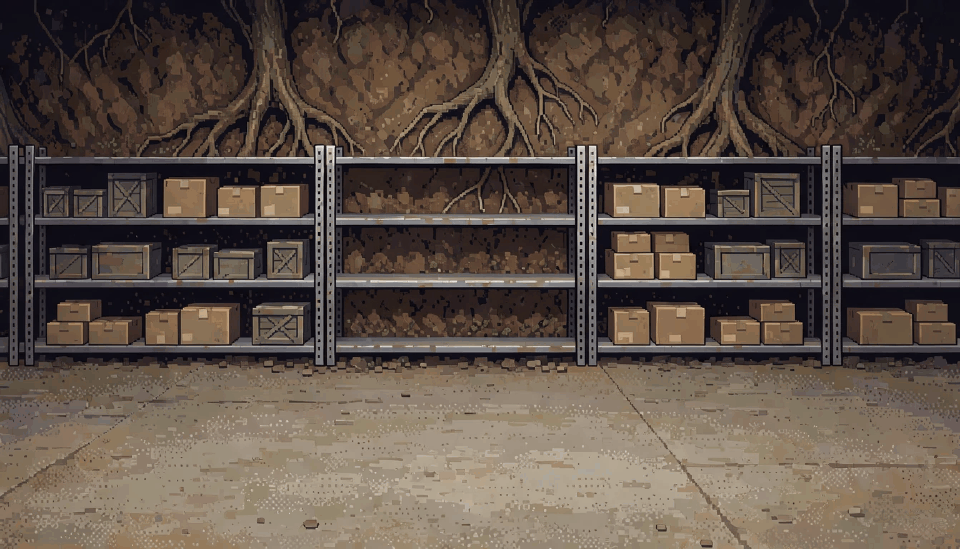
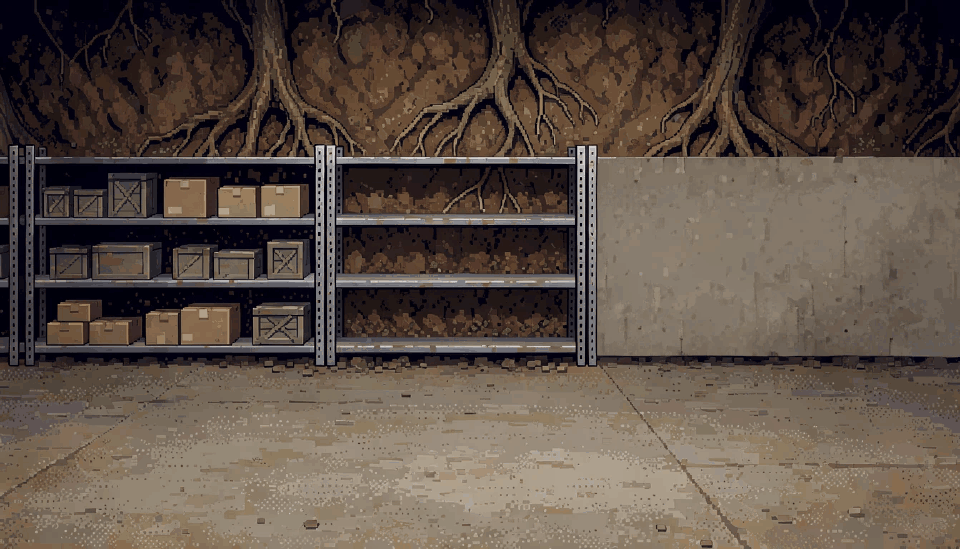
Capitolo 6: magazzino rifatto con il nuovo sfondo (muro di cemento), branda lunga e bassa, lavandino e specchio appesi al muro, ombre, luci d'emergenza, catena morbida (v1.204)

diff --git a/index.html b/index.html
@@ -878,7 +878,7 @@
       <button class="hs-btn btn-secondario" id="hb-3">TORNEO</button>
     </div>
     <div class="hs-extra"><button class="btn-secondario" id="hb-4">ALLENAMENTO</button><button class="btn-secondario" id="hb-chars">PERSONAGGI</button></div>
-    <div class="hs-foot"><span>Dal libro Le Sopracciglia della Guerra · v1.203</span><button id="hb-cred">Crediti</button><button id="hb-install" class="hs-install" hidden>Installa l’app</button></div>
+    <div class="hs-foot"><span>Dal libro Le Sopracciglia della Guerra · v1.204</span><button id="hb-cred">Crediti</button><button id="hb-install" class="hs-install" hidden>Installa l’app</button></div>
   </div>
   <!-- impostazioni: icona in alto a sinistra, pannello a comparsa -->
   <button id="hb-set" class="btn-icona" aria-label="Impostazioni"><svg class="pxi" viewBox="0 0 16 16" width="32" height="32" shape-rendering="crispEdges" aria-hidden="true"><rect class="px-o" x="6" y="1" width="4" height="1"/><rect class="px-o" x="2" y="2" width="2" height="1"/><rect class="px-o" x="6" y="2" width="1" height="1"/><rect class="px-g" x="7" y="2" width="2" height="1"/><rect class="px-o" x="9" y="2" width="1" height="1"/><rect class="px-o" x="12" y="2" width="2" height="1"/><rect class="px-o" x="1" y="3" width="1" height="1"/><rect class="px-g" x="2" y="3" width="2" height="1"/><rect class="px-o" x="4" y="3" width="2" height="1"/><rect class="px-g" x="6" y="3" width="4" height="1"/><rect class="px-o" x="10" y="3" width="2" height="1"/><rect class="px-g" x="12" y="3" width="2" height="1"/><rect class="px-o" x="14" y="3" width="1" height="1"/><rect class="px-o" x="1" y="4" width="1" height="1"/><rect class="px-g" x="2" y="4" width="11" height="1"/><rect class="px-G" x="13" y="4" width="1" height="1"/><rect class="px-o" x="14" y="4" width="1" height="1"/><rect class="px-o" x="2" y="5" width="1" height="1"/><rect class="px-g" x="3" y="5" width="4" height="1"/><rect class="px-o" x="7" y="5" width="2" height="1"/><rect class="px-g" x="9" y="5" width="4" height="1"/><rect class="px-o" x="13" y="5" width="1" height="1"/><rect class="px-o" x="1" y="6" width="2" height="1"/><rect class="px-g" x="3" y="6" width="3" height="1"/><rect class="px-o" x="6" y="6" width="1" height="1"/><rect class="px-o" x="9" y="6" width="1" height="1"/><rect class="px-g" x="10" y="6" width="3" height="1"/><rect class="px-o" x="13" y="6" width="2" height="1"/><rect class="px-o" x="0" y="7" width="1" height="1"/><rect class="px-g" x="1" y="7" width="4" height="1"/><rect class="px-o" x="5" y="7" width="1" height="1"/><rect class="px-o" x="10" y="7" width="1" height="1"/><rect class="px-g" x="11" y="7" width="2" height="1"/><rect class="px-G" x="13" y="7" width="2" height="1"/><rect class="px-o" x="15" y="7" width="1" height="1"/><rect class="px-o" x="0" y="8" width="1" height="1"/><rect class="px-g" x="1" y="8" width="4" height="1"/><rect class="px-o" x="5" y="8" width="1" height="1"/><rect class="px-o" x="10" y="8" width="1" height="1"/><rect class="px-g" x="11" y="8" width="1" height="1"/><rect class="px-G" x="12" y="8" width="3" height="1"/><rect class="px-o" x="15" y="8" width="1" height="1"/><rect class="px-o" x="1" y="9" width="2" height="1"/><rect class="px-g" x="3" y="9" width="3" height="1"/><rect class="px-o" x="6" y="9" width="1" height="1"/><rect class="px-o" x="9" y="9" width="1" height="1"/><rect class="px-g" x="10" y="9" width="1" height="1"/><rect class="px-G" x="11" y="9" width="2" height="1"/><rect class="px-o" x="13" y="9" width="2" height="1"/><rect class="px-o" x="2" y="10" width="1" height="1"/><rect class="px-g" x="3" y="10" width="3" height="1"/><rect class="px-G" x="6" y="10" width="1" height="1"/><rect class="px-o" x="7" y="10" width="2" height="1"/><rect class="px-G" x="9" y="10" width="4" height="1"/><rect class="px-o" x="13" y="10" width="1" height="1"/><rect class="px-o" x="1" y="11" width="1" height="1"/><rect class="px-g" x="2" y="11" width="2" height="1"/><rect class="px-G" x="4" y="11" width="10" height="1"/><rect class="px-o" x="14" y="11" width="1" height="1"/><rect class="px-o" x="1" y="12" width="1" height="1"/><rect class="px-G" x="2" y="12" width="2" height="1"/><rect class="px-o" x="4" y="12" width="2" height="1"/><rect class="px-G" x="6" y="12" width="4" height="1"/><rect class="px-o" x="10" y="12" width="2" height="1"/><rect class="px-G" x="12" y="12" width="2" height="1"/><rect class="px-o" x="14" y="12" width="1" height="1"/><rect class="px-o" x="2" y="13" width="2" height="1"/><rect class="px-o" x="6" y="13" width="1" height="1"/><rect class="px-G" x="7" y="13" width="2" height="1"/><rect class="px-o" x="9" y="13" width="1" height="1"/><rect class="px-o" x="12" y="13" width="2" height="1"/><rect class="px-o" x="6" y="14" width="4" height="1"/></svg></button>
@@ -901,7 +901,7 @@
     <div class="cr-b"><div class="cr-r">IDEAZIONE, SVILUPPO<br>E GRAFICHE DEL GIOCO</div><div class="cr-n">Chiara Corbo</div></div>
     <div class="cr-b"><div class="cr-r">MUSICHE</div><div class="cr-n">Federico Baccetti</div></div>
     <div class="cr-end">Grazie per aver giocato!<br>Che le vostre sopracciglia siano sempre in guerra.</div>
-    <p class="lic">Vittoria di Luca Pisani: W. A. Mozart, <i>Eine kleine Nachtmusik</i> (pubblico dominio). Carattere Pixelify Sans © 2021 The Pixelify Sans Project Authors, SIL Open Font License 1.1 (openfontlicense.org). Versione v1.203.</p>
+    <p class="lic">Vittoria di Luca Pisani: W. A. Mozart, <i>Eine kleine Nachtmusik</i> (pubblico dominio). Carattere Pixelify Sans © 2021 The Pixelify Sans Project Authors, SIL Open Font License 1.1 (openfontlicense.org). Versione v1.204.</p>
     <button id="cred-close" class="btn-primario">CHIUDI</button>
   </div></div>
 </div>
@@ -3511,18 +3511,20 @@ const ABBAIA={mango:true};
    suBranda = Iacopo sdraiato sollevato fino al piano della branda; polso = dove parte la catena; gambaBranda = punto della gamba della branda nell'immagine;
    sopracciglio = punto del sopracciglio di Iacopo sdraiato; martello = dove il martello colpisce la catena (dx davanti a Iacopo, dy da terra) e fotogramma del colpo;
    specchio = altezza dello specchio sullo schermo e ovale del vetro nell'immagine */
-const CAP6={suBranda:34,branda:{img:'branda',x:.74,scala:.95},polsoSdraiato:[76,10],polsoSeduto:[80,84],gambaBranda:[10,74],sopracciglio:[15,13],
+const CAP6={suBranda:14,suSedutoBranda:-12,branda:{img:'branda_magazzino',x:.77,scala:.52},polsoSdraiato:[76,10],polsoSeduto:[80,84],gambaBranda:[10,74],sopracciglio:[15,13],
   martello:{dx:80,dy:90,colpo:7},erba:-34,suSeduto:5,letto:.7,altLetto:84,martelloDist:.12,luca:.5,sito:.44,specchio:{alto:300,y:12,vetro:{cx:120,cy:160,rx:79,ry:119}}};
 /* il magazzino della base (cap06): sfondo vuoto + oggetti di scena separati, tutti sulla linea del pavimento davanti agli scaffali.
    branda a destra, lavandino a muro all'estrema destra con lo specchio sopra; tavolo al centro con la cassa accanto (Luca ci si siede).
    "Dopo quella notte": il lavandino rotto a terra nell'angolo e, al posto dello specchio, un segno più chiaro sul muro. */
-const MAG6={tavolo:{img:'tavolo',x:.58,scala:.9},cassa:{img:'cassa',x:.5,scala:.57},lavandino:{img:'lavandino',x:.93,scala:.8},
-  specchio:{img:'specchio',x:.935,dy:-110,scala:.18},segno:{img:'segno_specchio',x:.935,dy:-110,scala:.18},rotto:{img:'lavandino_rotto',x:.93,scala:.75},
-  vassoio:{img:'vassoio',x:.58,dy:-71,scala:.6},   /* dy: poggia sul piano del tavolo */
-  prigioniero:CAP6.branda.x+.035,altPrig:48,polsi:{scena:[65,107],supplica:[76,104]},paloBranda:[12,14],   /* polsi del prigioniero (punti dello sprite); palo sinistro della branda */
-  iacopoMartello:CAP6.branda.x-.14,altLuca:10};
-const OGGETTI_MAG6_NOTTE=[CAP6.branda,MAG6.tavolo,MAG6.cassa,MAG6.lavandino,MAG6.specchio];
-const OGGETTI_MAG6_DOPO=[MAG6.segno,CAP6.branda,MAG6.tavolo,MAG6.cassa,MAG6.rotto];
+const MAG6={H:143,muro:.647,   /* H = altezza di un personaggio in piedi (punti di scena); muro = base del muro di cemento nello sfondo (frazione dell'altezza) */
+  tavolo:{img:'tavolo',x:.4,dy:5,scala:.9,davanti:true},   /* piano a ~H/2; un po' più vicino allo spettatore della branda (più in basso sullo schermo) */
+  cassa:{img:'cassa',x:.33,dy:5,scala:.51,davanti:true},   /* alta ~H/4, accanto al tavolo come uno sgabello */
+  vassoio:{img:'vassoio',x:.4,dy:5-72,scala:.6,davanti:true},   /* poggia sul piano del tavolo */
+  lavandino:{x:.92,bordo:72,scala:.5,fx:[80,90],dalTop:25},   /* appeso al muro: bordo a ~H/2 sopra la base del muro; fx = punto del rubinetto nelle due immagini (intero, rotto) */
+  specchio:{w:48,sopra:8},   /* specchio largo ~H/3, appeso sopra il lavandino all'altezza della testa */
+  prigioniero:.77,altPrig:24,polsi:{scena:[65,107],supplica:[76,104]},gambaBranda:[10,74],   /* polsi del prigioniero (punti dello sprite); gamba sinistra della branda */
+  iacopoMartello:.66,altLuca:-2};
+const OGGETTI_MAG6=[CAP6.branda,MAG6.tavolo,MAG6.cassa];
 const CAP6_VETRO={};   /* (l'ovale del vetro sullo schermo, aggiornato da "specchio" e usato dalle crepe) */
 const CHAT_SALUTI=[['MochiPaca','#ff7eb6','konnichiwa!!! \u{1F44B}'],['LanaDolce','#7ec8ff','ciao Usagi \u{1F496}\u{1F496}'],['Paca_Zen','#9bff7e','eccomiii \u{1F430}'],['GamerPaca99','#ffb36b','Human Simulator!! \u{1F525}'],['FluffyBunny123','#c9a0ff','\u{1F497}\u{1F497}\u{1F497}']];
 const CHAT_NOTIZIE=[['xXAlpacaLoverXx','#ff6b6b','\u{1F631} Ho appena sentito al telegiornale che c’è stato un attentato in città! \u{1F628}'],
@@ -3537,7 +3539,7 @@ const FORUM=[['AlpacaRevolutionary93','Il Fronte sta facendo quello che il gover
   ['DoubtfulAlpaca42','Non mi piace la violenza, ma devo ammettere che il Fronte sta ottenendo risultati. Forse è l’unico modo per combattere un re tiranno come il nostro.'],
   ['RebelAlpaca77','Il re non merita rispetto. Tutto quello che gli importa è il suo potere e la sua ricchezza. Il Fronte di Liberazione del Lattosio è l’unica speranza che abbiamo per un futuro migliore.']];
 /* Iacopo incatenato: quando parla si mette seduto sul bordo della branda (la catena lo segue), poi torna sdraiato */
-const IACOPO_SI_SIEDE=[{sostituisci:'iacopobranda',con:'ribelle',a:CAP6.branda.x-.035,verso:'sinistra',posa:'seduto_fermo'}];
+const IACOPO_SI_SIEDE=[{sostituisci:'iacopobranda',con:'ribelle',a:CAP6.branda.x-.035,verso:'sinistra',posa:'seduto_branda'}];
 const IACOPO_SI_SDRAIA=[{sostituisci:'ribelle',con:'iacopobranda',a:CAP6.branda.x,verso:'destra'}];
 /* ---------- capitolo 6 ---------- */
 /* LUCA DI MAURO nelle scene: strisce da 128 allineate a Iacopo (lo sprite da lotta ha un'altra misura) */
@@ -3552,6 +3554,7 @@ Object.assign(STORY_SPRITES.ribelle.scenePoses,{urla:_P('urla',12,10,{ciclo:6}),
   seduto_fermo:_P('seduto',1,1,{su:CAP6.suSeduto})});   /* seduto_fermo = primo fotogramma di "seduto" (seduto sul bordo della branda) */
 STORY_SPRITES.iacopomantello.scenePoses.parla=_P('parla',12,8,{..._PARLA,fw:160,ax:80});
 SPRITE_CHARS.chiara.scenePoses.occhi_coperti=_P('occhi_coperti',12,8,{ciclo:6});
+STORY_SPRITES.ribelle.scenePoses.seduto_branda=_P('seduto',1,1,{su:CAP6.suSedutoBranda});STORY_SPRITES.ribelle.scenePoses.parla_branda=_P('seduto_parla',16,8,{..._PARLA,su:CAP6.suSedutoBranda});   /* seduto sul bordo della branda del magazzino */
 SPRITE_CHARS.sito.scenePoses.telefono=_P('telefono',12,8,{ciclo:6});SPRITE_CHARS.sito.scenePoses.seduto_fermo=_P('seduto',1,1);   /* seduto alla postazione */
 /* Iacopo incatenato, sdraiato sulla branda (un solo disegno: le sopracciglia strappate e la catena le disegna il codice) */
 _comparsa('iacopobranda','IACOPO',1.28,{},{fw:118,fh:33,ax:59,ay:33});STORY_SPRITES.iacopobranda.scenePoses.scena.su=CAP6.suBranda;
@@ -3567,6 +3570,16 @@ STORY_ROSTER.iacopopensiero={id:'iacopopensiero',name:'IACOPO',uso:'comparsa',se
 COPPIE.iacopo_zibe_colletto={file:'iacopo_zibe_colletto',n:12,fps:10,pingpong:true,fw:192,fh:192,ax:96,ay:186,scala:1.28};   /* Iacopo a sinistra nel disegno */
 COPPIE.iacopo_trattenuto={file:'iacopo_trattenuto',n:12,fps:10,pingpong:true,fw:192,fh:192,ax:96,ay:186,scala:1.28};   /* Zibe, Iacopo, Alice (da sinistra) */
 /* aiuti per le animazioni del capitolo 6 */
+/* catena disegnata anello per anello da (ax,ay) a (bx,by), con una curva verso il basso di "sag" punti */
+function _catena(c,ax,ay,bx,by,sag){const L=Math.hypot(bx-ax,by-ay),n=Math.max(4,Math.round(L/5));c.lineWidth=1.4;
+  for(let i=0;i<=n;i++){const u=i/n,x=ax+(bx-ax)*u,y=ay+(by-ay)*u+Math.sin(u*Math.PI)*Math.min(sag,L*.3);c.strokeStyle='#1c1c22';c.beginPath();c.ellipse(x,y,i%2?1.6:3,i%2?3:1.6,0,0,7);c.stroke();
+    c.strokeStyle='#5a5a66';c.beginPath();c.ellipse(x,y-.4,i%2?1:2.2,i%2?2.2:1,0,0,7);c.stroke();}}
+/* lavandino (intero o rotto) e specchio / segno dello specchio sul muro di cemento del magazzino */
+function _muroMag6(c,w,d,rotto){const b=SC.animD.bg;if(!b)return;const L=MAG6.lavandino,yM=b.y+b.h*MAG6.muro,x=w*L.x,top=yM-L.bordo-L.dalTop;
+  const I=_ogg(rotto?'lavandino_muro_rotto':'lavandino_muro'),f=L.fx[rotto?1:0];if(I)c.drawImage(I,x-f*L.scala,top,I.naturalWidth*L.scala,I.naturalHeight*L.scala);
+  const S=MAG6.specchio,M=_ogg('specchio');if(!M)return;const sw=S.w,sh=sw*M.naturalHeight/M.naturalWidth,sy=top-S.sopra-sh;
+  if(!rotto){c.drawImage(M,x-sw/2,sy,sw,sh);return;}
+  c.fillStyle='rgba(225,220,205,.13)';c.fillRect(Math.round(x-sw/2),Math.round(sy),Math.round(sw),Math.round(sh));c.strokeStyle='rgba(235,230,215,.18)';c.lineWidth=1;c.strokeRect(Math.round(x-sw/2)+.5,Math.round(sy)+.5,Math.round(sw)-1,Math.round(sh)-1);}
 function _ogg(n){const o=immagineOggetto(n);return imgOk(o.im)?o.im:null;}
 const _SAGOME={};function _sagoma(src){let s=_SAGOME[src];if(!s){const im=new Image();s=_SAGOME[src]={im,cv:null};im.src=src;}
   if(!s.cv&&imgOk(s.im)){const cv=document.createElement('canvas');cv.width=s.im.naturalWidth;cv.height=s.im.naturalHeight;const g=cv.getContext('2d');g.drawImage(s.im,0,0);g.globalCompositeOperation='source-in';g.fillStyle='#050308';g.fillRect(0,0,cv.width,cv.height);s.cv=cv;}return s.cv;}
@@ -3578,7 +3591,7 @@ function _foglio(c,t,w,i,m){const f=FORUM[i],k=Math.min(1,t/.3),W2=360,H2=150,x=
   _aCapo(c,'“'+f[1]+'”',W2-28).forEach((r,j)=>c.fillText(r,-W2/2+14,-H2/2+34+j*15));c.restore();}
 const SFONDI_STORIA={bar_operai:{suolo:.62},
   saloon_vuoto:{suolo:.82,taglio:'alto',cima:.06},saloon_devastato:{suolo:.82,taglio:'alto',cima:.06},   /* stessa inquadratura del bar normale */   /* meno ingrandito: finestre e bottiglie intere */piazza_deserto:{suolo:.8,taglio:'alto',cima:.03},   /* in alto: la testa della statua resta visibile */
-  bar_deserto:{suolo:.8},bar_deserto_devastato:{suolo:.8},strada_inseguimento:{suolo:.9},sala_khera:{suolo:.88},appartamento:{suolo:.74},bar_khera:{suolo:.86},bar_khera_vuoto:{suolo:.8},altopiano_khera:{suolo:.86},corridoio_khera:{suolo:.74},magazzino_base:{suolo:.8},magazzino_dopo:{suolo:.8},terrazza_palazzo:{suolo:.82},sogno_prato:{suolo:.9,taglio:'alto',cima:0},sogno_palazzo:{suolo:.84},postazione_sito:{suolo:.95,taglio:'alto',cima:0},balcone_torre:{suolo:.9,taglio:'alto',cima:0},nero_pieno:{suolo:.86},
+  bar_deserto:{suolo:.8},bar_deserto_devastato:{suolo:.8},strada_inseguimento:{suolo:.9},sala_khera:{suolo:.88},appartamento:{suolo:.74},bar_khera:{suolo:.86},bar_khera_vuoto:{suolo:.8},altopiano_khera:{suolo:.86},corridoio_khera:{suolo:.74},magazzino_base:{suolo:.76},magazzino_dopo:{suolo:.76},terrazza_palazzo:{suolo:.82},sogno_prato:{suolo:.9,taglio:'alto',cima:0},sogno_palazzo:{suolo:.84},postazione_sito:{suolo:.95,taglio:'alto',cima:0},balcone_torre:{suolo:.9,taglio:'alto',cima:0},nero_pieno:{suolo:.86},
   cortile_pista:{suolo:.8},cortile_pista2:{suolo:.8},vicolo_pioggia:{suolo:.82},qg_esterno:{suolo:.75},tetti_qg:{suolo:.78},qg_fiamme:{suolo:.86},cielo_notte:{suolo:.95},periferia_notte:{suolo:.87},auto_pioggia:{suolo:.55},
   studio_tg2:{suolo:.83},rifugio_fronte:{suolo:.64},rifugio_cucina:{suolo:.64},rifugio_mensa:{suolo:.64},rifugio_svago:{suolo:.64},rifugio_assemblea:{suolo:.64},sala_danza:{suolo:.8},giardino_ricevimento:{suolo:.78},retro_furgone:{suolo:.9},furgone_fuori:{suolo:.70},tetto_piazza:{suolo:.7},studio_tg:{suolo:.77},sala_riunioni:{suolo:.71},sala_riunioni2:{suolo:.75},
   strada_murale:{suolo:.915},   /* cap02: i piedi sul marciapiede, non sul muro */
@@ -4760,11 +4773,11 @@ const STORIA={
       ]},
 
       /* il magazzino, di notte: il prigioniero sul letto, girato verso il muro */
-      {id:'cap06_p06',tipo:'scena',sfondo:'magazzino_base',oggetti:OGGETTI_MAG6_NOTTE,livelli:['notte_base','catena_prigioniero'],entrata:.6,
+      {id:'cap06_p06',tipo:'scena',sfondo:'magazzino_base',oggetti:OGGETTI_MAG6,livelli:['muro_notte','ombre','notte_magazzino','catena_prigioniero'],entrata:.6,
         attori:[{id:'prigioniero',x:MAG6.prigioniero,verso:'destra',posa:'scena'}],azioni:[
-        {muovi:'prigioniero',alt:MAG6.altPrig,velAlt:99999},{entra:'ribelle',da:'sinistra',a:.27,vel:50,cammina:'cammina_c3'},
+        {muovi:'prigioniero',alt:MAG6.altPrig,velAlt:99999},{entra:'ribelle',da:'sinistra',a:.17,vel:50,cammina:'cammina_c3'},   /* si appoggia allo scaffale */
         {chi:'ribelle',pose:{ribelle:'parla'},testo:'Spero che ti stia trovando bene'},
-        {posa:{ribelle:'base',prigioniero:'supplica'}},{guarda:{prigioniero:'sinistra'}},{livello:'tintinnio'},{attesa:.8},   /* sobbalza: catene */
+        {posa:{ribelle:'base',prigioniero:'supplica'}},{livello:'tintinnio'},{attesa:.8},   /* sobbalza: catene */
         {chi:'ribelle',pose:{ribelle:'parla'},testo:'Quindi, dimmi, cosa ti ha spinto a fare una cosa del genere?'},
         {chi:'prigioniero',pose:{ribelle:'base',prigioniero:'parla'},testo:'Non volevo farlo, giuro... Mi hanno minacciato, mi hanno detto che avrebbero fatto del male alla mia famiglia se non avessi obbedito.'},
         {chi:'ribelle',pose:{prigioniero:'scena',ribelle:'parla'},testo:'Non sapevi che stavi mandando Riccardo a morire? Non sapevi che il regno avrebbe usato queste informazioni contro di noi?'},
@@ -4774,7 +4787,7 @@ const STORIA={
         {chi:'ribelle',pose:{ribelle:'parla'},testo:'Capisci cosa significa ribellarsi, alpaca? Ribellarsi significa avere il coraggio di lottare contro l’oppressione, di difendere ciò che è giusto e di proteggere chi ci è caro. Quando hai deciso di tradire Riccardo, hai tradito anche te stesso e il tuo popolo.'},
         {chi:'ribelle',pose:{ribelle:'arrabbiato'},testo:'Eri tu che dovevi proteggere la tua famiglia e il tuo popolo, e invece li hai abbandonati per paura. Per paura delle ripercussioni del regno. Ma dimmi, alpaca, cosa rimane di te ora? Cosa rimane della tua dignità e del tuo onore?'},
         {didascalia:'(Iacopo afferra un grosso martello e colpisce la catena che tiene prigioniero l’alpaca.)',pose:{ribelle:'martello'}},
-        {livello:'martello'},{posa:{ribelle:'martello'}},{attesa:3.5},{togliLivello:'catena_prigioniero'},{livello:'catena_spezzata'},{attesa:.3},{togliLivello:'martello'},{posa:{ribelle:'base'}},{attesa:.6},
+        {livello:'martello'},{posa:{ribelle:'martello'}},{attesa:3.5},{livello:'catena_spezzata'},{attesa:.3},{togliLivello:'martello'},{posa:{ribelle:'base'}},{attesa:.6},
         {chi:'ribelle',pose:{ribelle:'parla'},testo:'Sappi che ogni volta che ti guardi allo specchio, dovrai vedere il volto di un traditore. Dovrai convivere con la vergogna delle tue azioni e con il peso delle vite che hai distrutto.'},
         {posa:{ribelle:'base',prigioniero:'supplica'}},{livello:'tonfo'},{effetto:'trema',forza:3,durata:.3},{attesa:.7},   /* getta il martello a terra */
         {chi:'ribelle',pose:{ribelle:'arrabbiato'},testo:'Guardati. Ti ho liberato dalle catene che ti tenevano prigioniero, eppure rimani lì, a piangere, senza nemmeno provare a combattere contro il tuo aguzzino. Non tenti di scappare, non tenti di cambiare le cose, non fai nulla. Rimani prigioniero di catene già spezzate.'},
@@ -4793,11 +4806,11 @@ const STORIA={
       ]},
 
       /* il magazzino: Iacopo urla; Zibe e Alice lo portano via */
-      {id:'cap06_p09',tipo:'scena',sfondo:'magazzino_base',oggetti:OGGETTI_MAG6_NOTTE,livelli:['notte_base'],entrata:.3,
+      {id:'cap06_p09',tipo:'scena',sfondo:'magazzino_base',oggetti:OGGETTI_MAG6,livelli:['muro_notte','ombre','notte_magazzino'],entrata:.3,
         attori:[{id:'ribelle',x:.55,verso:'sinistra',posa:'urla'}],azioni:[
         {attesa:3},
         {didascalia:'(Per quasi un minuto, Iacopo continuò a urlare.)'},
-        {entra:'zibe',da:'sinistra',a:.43,vel:260,insieme:true},{entra:'alice',da:'sinistra',a:.65,vel:300,primoPiano:true,cammina:'cammina_calma'},
+        {entra:'zibe',da:'sinistra',a:.47,vel:260,insieme:true},{entra:'alice',da:'sinistra',a:.65,vel:300,primoPiano:true,cammina:'cammina_calma'},
         {coppia:'iacopo_trattenuto',attori:['ribelle','zibe','alice'],x:.55,dissolvenza:.12},{attesa:.5},
         {esceCoppia:'sinistra',vel:90},
         {effetto:'nero',durata:1,resta:true},
@@ -4848,12 +4861,12 @@ const STORIA={
       ]},
 
       /* il magazzino "dopo quella notte": Iacopo incatenato alla branda */
-      {id:'cap06_p14',tipo:'scena',sfondo:'magazzino_dopo',oggetti:OGGETTI_MAG6_DOPO,livelli:['catena','strappa'],entrata:1,
+      {id:'cap06_p14',tipo:'scena',sfondo:'magazzino_dopo',oggetti:OGGETTI_MAG6,livelli:['muro_giorno','ombre','catena','strappa'],entrata:1,
         attori:[{id:'iacopobranda',x:CAP6.branda.x,verso:'destra'}],azioni:[
         {musica:'lose'},
         {didascalia:'(Ora Iacopo è prigioniero. I suoi compagni hanno deciso di incatenarlo alla stessa branda dove dormiva l’assassino di suo fratello.)'},
         {didascalia:'(Con una mano, Iacopo si strappa lentamente le sopracciglia gialle. Sembra non sentire alcun dolore.)'},
-        {entra:'dimauro',da:'sinistra',a:CAP6.luca,vel:45,cammina:'vassoio'},{posa:{dimauro:'base'}},{livello:'vassoio_tavolo'},   /* appoggia il vassoio sul tavolo */
+        {entra:'dimauro',da:'sinistra',a:MAG6.cassa.x,vel:45,cammina:'vassoio',primoPiano:true},{posa:{dimauro:'base'}},{livello:'vassoio_tavolo'},   /* appoggia il vassoio sul tavolo */
         {chi:'dimauro',pose:{dimauro:'parla'},testo:'Ehi, ti ho portato il pranzo.'},
         {posa:{dimauro:'base'}},{attesa:1.3},{posa:{dimauro:'seduto'}},{muovi:'dimauro',alt:MAG6.altLuca,velAlt:99999},{attesa:1.4},   /* nessuna risposta; Luca si siede sulla cassa */
         {chi:'dimauro',testo:'Ascolta, so che non dovrei dirlo, ma secondo me hai fatto la cosa giusta.'},
@@ -4863,9 +4876,9 @@ const STORIA={
         {chi:'dimauro',pose:{dimauro:'parla'},testo:'Non dovresti strapparti quelle sopracciglia, secondo me sono molto belle, di un colore che non avevo mai visto prima.'},
         {posa:{dimauro:'base'}},{togliLivello:'strappa'},{attesa:.8},   /* smette di strapparsi le sopracciglia */
         ...IACOPO_SI_SIEDE,
-        {chi:'ribelle',pose:{ribelle:'seduto_parla'},testo:'Come ti chiami?'},
+        {chi:'ribelle',pose:{ribelle:'parla_branda'},testo:'Come ti chiami?'},
         {muovi:'dimauro',a:.1,vel:45},{guarda:{dimauro:'destra'}},   /* si ferma sulla soglia */
-        {chi:'dimauro',pose:{dimauro:'parla',ribelle:'seduto_fermo'},testo:'Mi chiamo Luca di Mauro.'},
+        {chi:'dimauro',pose:{dimauro:'parla',ribelle:'seduto_branda'},testo:'Mi chiamo Luca di Mauro.'},
         {posa:{dimauro:'base'}},{esce:'dimauro',verso:'sinistra',vel:45},
         ...IACOPO_SI_SDRAIA,{attesa:2},
         {effetto:'nero',durata:2.5,resta:true},   /* dissolvenza LENTA */
@@ -4891,7 +4904,7 @@ const STORIA={
         {effetto:'nero',durata:.05,resta:true},
       ]},
       /* il risveglio */
-      {id:'cap06_p16',tipo:'scena',sfondo:'magazzino_dopo',oggetti:[...OGGETTI_MAG6_DOPO,MAG6.vassoio],livelli:['catena'],entrata:.2,
+      {id:'cap06_p16',tipo:'scena',sfondo:'magazzino_dopo',oggetti:[...OGGETTI_MAG6,MAG6.vassoio],livelli:['muro_giorno','ombre','catena'],entrata:.2,
         attori:[{id:'iacopobranda',x:CAP6.branda.x,verso:'destra'}],azioni:[
         {musica:'lose'},{attesa:.3},
         ...IACOPO_SI_SIEDE,{effetto:'trema',forza:3,durata:.25},   /* si sveglia di soprassalto */
@@ -4900,22 +4913,22 @@ const STORIA={
       ]},
 
       /* alcuni giorni dopo: i compagni vengono da Iacopo */
-      {id:'cap06_p17',tipo:'scena',sfondo:'magazzino_dopo',oggetti:[...OGGETTI_MAG6_DOPO,MAG6.vassoio],livelli:['catena'],entrata:.8,
+      {id:'cap06_p17',tipo:'scena',sfondo:'magazzino_dopo',oggetti:[...OGGETTI_MAG6,MAG6.vassoio],livelli:['muro_giorno','ombre','catena'],entrata:.8,
         attori:[{id:'iacopobranda',x:CAP6.branda.x,verso:'destra'}],azioni:[
-        {entra:'zibe',da:'sinistra',a:.44,vel:80,insieme:true},{attesa:.35},{entra:'alice',da:'sinistra',a:.35,vel:80,insieme:true,cammina:'cammina_calma'},{attesa:.35},
-        {entra:'batteo',da:'sinistra',a:.26,vel:80,insieme:true,cammina:'cammina_c3'},{attesa:.35},{entra:'mango',da:'sinistra',a:.17,vel:80},
+        {entra:'zibe',da:'sinistra',a:.52,vel:80,insieme:true},{attesa:.35},{entra:'alice',da:'sinistra',a:.24,vel:80,insieme:true,cammina:'cammina_calma'},{attesa:.35},
+        {entra:'batteo',da:'sinistra',a:.16,vel:80,insieme:true,cammina:'cammina_c3'},{attesa:.35},{entra:'mango',da:'sinistra',a:.08,vel:80},
         {chi:'zibe',pose:{zibe:'parla'},testo:'Di cosa volevi parlare, Iacopo?'},
         {posa:{zibe:'base'}},...IACOPO_SI_SIEDE,
-        {chi:'ribelle',pose:{ribelle:'seduto_parla'},testo:'Come vanno le operazioni?'},
-        {chi:'alice',pose:{ribelle:'seduto_fermo',alice:'arrabbiato'},testo:'Non hai il diritto di sapere nulla dopo quello che hai fatto!'},
-        {chi:'ribelle',pose:{alice:'base',ribelle:'seduto_parla'},testo:'Non potete biasimarmi. Avreste fatto lo stesso al mio posto. Se vi sentite tanto superiori, dovreste passarci sopra e darmi la possibilità di combattere al vostro fianco. Perché so bene che le cose stanno andando male. Sempre più membri del gruppo stanno venendo catturati ed è solo questione di tempo prima che qualcuno parli e riveli il luogo del quartier generale.'},
-        {chi:'batteo',pose:{ribelle:'seduto_fermo',batteo:'arrabbiato'},testo:'Ce la stiamo cavando, e da dove avresti preso queste informazioni?'},
-        {chi:'ribelle',pose:{batteo:'base',ribelle:'seduto_parla'},testo:'Anche se sono imprigionato, i corridoi sono rumorosi.'},
+        {chi:'ribelle',pose:{ribelle:'parla_branda'},testo:'Come vanno le operazioni?'},
+        {chi:'alice',pose:{ribelle:'seduto_branda',alice:'arrabbiato'},testo:'Non hai il diritto di sapere nulla dopo quello che hai fatto!'},
+        {chi:'ribelle',pose:{alice:'base',ribelle:'parla_branda'},testo:'Non potete biasimarmi. Avreste fatto lo stesso al mio posto. Se vi sentite tanto superiori, dovreste passarci sopra e darmi la possibilità di combattere al vostro fianco. Perché so bene che le cose stanno andando male. Sempre più membri del gruppo stanno venendo catturati ed è solo questione di tempo prima che qualcuno parli e riveli il luogo del quartier generale.'},
+        {chi:'batteo',pose:{ribelle:'seduto_branda',batteo:'arrabbiato'},testo:'Ce la stiamo cavando, e da dove avresti preso queste informazioni?'},
+        {chi:'ribelle',pose:{batteo:'base',ribelle:'parla_branda'},testo:'Anche se sono imprigionato, i corridoi sono rumorosi.'},
         {chi:'ribelle',testo:'Avete bisogno di me. Sono l’unico che non è così timoroso da poter cambiare le cose. Per combattere la violenza, bisogna usare la forza quando necessario. Non possiamo aspettare che il nemico ci annienti.'},
         ...IACOPO_SI_SDRAIA,
         {chi:'alice',pose:{alice:'arrabbiato'},testo:'Non è una questione di essere timorosi, Iacopo. È questione di principi e valori. Non possiamo diventare come loro, usando la violenza e la brutalità.'},
         {posa:{alice:'base'}},...IACOPO_SI_SIEDE,
-        {chi:'ribelle',pose:{ribelle:'seduto_parla'},testo:'È un’illusione pensare che possiamo vincere senza sporcarsi le mani. La nostra lotta richiede sacrifici e decisioni difficili.'},
+        {chi:'ribelle',pose:{ribelle:'parla_branda'},testo:'È un’illusione pensare che possiamo vincere senza sporcarsi le mani. La nostra lotta richiede sacrifici e decisioni difficili.'},
         ...IACOPO_SI_SDRAIA,
         {chi:'batteo',pose:{batteo:'parla'},testo:'Non possiamo permetterci di perdere i nostri valori. È ciò che ci rende diversi da loro. Se rinunciamo ai nostri valori, non avremo più nulla per cui lottare.'},
         {chi:'alice',pose:{batteo:'base',alice:'triste'},testo:'Non possiamo più fidarci di te, Iacopo. Non solo per quello che hai fatto, ma anche per il modo in cui pensi. Ciò che hai fatto è imperdonabile.'},
@@ -5259,21 +5272,35 @@ const ANIMAZIONI={
     const x=d.x0+o.face*(CAP6.sopracciglio[0]-F.ax)*F.sc,y=F.y+(CAP6.sopracciglio[1]-F.ay)*F.sc;
     for(let j=Math.max(0,k-1);j<=k;j++){const q=t-j*2;if(q<0||q>1.8)continue;for(let i=0;i<3;i++){const s=sr(j*5+i);c.fillStyle='rgba(255,220,40,'+(1-q/1.8)+')';
       c.fillRect(Math.round(x+(s-.5)*8+q*(10+s*14)*-o.face+Math.sin(q*4+i)*3),Math.round(y-q*30+q*q*26),2,2);}}}},
-  /* p06: la catena dai polsi del prigioniero (in ginocchio sulla branda) al palo sinistro della branda; si toglie quando Iacopo la spezza */
-  catena_prigioniero:{sopra:true,draw(c,t,w,h,d){const B=SC&&SC.oggetti.find(x=>x.img==='branda'),o=SC&&SC.attori.prigioniero,F=o&&o.fot;if(!B||!B.I.im.naturalWidth||!F)return;
+  /* magazzino (cap06): lavandino e specchio appesi al muro di cemento, misurati dalla base del muro nello sfondo (così toccano il muro su ogni schermo).
+     muro_giorno: al loro posto il lavandino rotto ESATTAMENTE nello stesso punto (allineato sul rubinetto) e il rettangolo più chiaro dove era lo specchio */
+  muro_notte:{draw(c,t,w,h,d){_muroMag6(c,w,d,false);}},
+  muro_giorno:{draw(c,t,w,h,d){_muroMag6(c,w,d,true);}},
+  /* la stessa piccola ombra ovale sotto ogni attore e ogni oggetto appoggiato a terra (non sotto chi sta sopra la branda o sulla cassa) */
+  ombre:{draw(c,t,w,h,d){if(!SC)return;c.fillStyle='rgba(0,0,0,.32)';const ov=(x,y,rx)=>{c.beginPath();c.ellipse(x,y,rx,Math.max(3,rx*.16),0,0,7);c.fill();};
+    for(const o of SC.oggetti||[]){if(o.sfondo||(o.dy||0)<-10||!o.I||!o.I.base)continue;ov(o.x,SCENA_SUOLO+(o.dy||0),(o.I.im.naturalWidth*(o.scala||1))*.48);}
+    const nasc=SC.coppia?SC.coppia.ids:[];for(const k in SC.attori){const o=SC.attori[k];if(nasc.includes(k)||Math.abs(o.alt||0)>3||k==='iacopobranda')continue;ov(o.x,SCENA_SUOLO,20);}}},
+  /* notte nel magazzino: scuro, con tre luci d'emergenza arancioni che fanno piccoli aloni sul muro e sul pavimento */
+  notte_magazzino:{sopra:true,draw(c,t,w,h,d){const b=SC.animD.bg||{x:0,y:0,w,h};c.fillStyle='rgba(4,6,22,.62)';c.fillRect(0,0,w,h);c.globalCompositeOperation='lighter';
+    const yM=b.y+b.h*MAG6.muro;[[.035,.3],[.335,.3],[.8,.36]].forEach(([u,v],i)=>{const x=b.x+b.w*u,y=Math.max(b.y+b.h*v,22),a=.75+.25*Math.sin(t*1.6+i*1.9);
+      let g=c.createRadialGradient(x,y,0,x,y,80);g.addColorStop(0,'rgba(255,120,30,'+(.6*a)+')');g.addColorStop(1,'rgba(255,90,20,0)');c.fillStyle=g;c.beginPath();c.arc(x,y,80,0,7);c.fill();
+      const fy=(yM+SCENA_SUOLO)/2;g=c.createRadialGradient(x,fy,0,x,fy,70);g.addColorStop(0,'rgba(255,110,30,'+(.38*a)+')');g.addColorStop(1,'rgba(255,90,20,0)');
+      c.fillStyle=g;c.save();c.translate(x,fy);c.scale(1,.28);c.translate(-x,-fy);c.beginPath();c.arc(x,fy,70,0,7);c.fill();c.restore();
+      c.fillStyle='rgba(255,170,70,'+(.65+a*.35)+')';c.fillRect(Math.round(x)-4,Math.round(y)-2,8,4);});}},
+  /* p06: la catena dai polsi del prigioniero (in ginocchio al centro della branda) alla gamba sinistra della branda, morbida e curva.
+     Quando Iacopo la spezza (livello catena_spezzata) si stacca dalla branda e penzola dai polsi */
+  catena_prigioniero:{sopra:true,draw(c,t,w,h,d){const B=SC&&SC.oggetti.find(x=>x.img===CAP6.branda.img),o=SC&&SC.attori.prigioniero,F=o&&o.fot;if(!B||!B.I.im.naturalWidth||!F)return;
     const pt=F.file.endsWith('supplica')?MAG6.polsi.supplica:MAG6.polsi.scena,ax=o.x+o.face*(pt[0]-F.ax)*F.sc,ay=F.y+(pt[1]-F.ay)*F.sc;
-    const s=(B.scala||1)*SCENA_ZOOM,g=MAG6.paloBranda,bx=B.x+(B.ribalta?-1:1)*(g[0]-B.I.cx)*s,by=SCENA_SUOLO+(B.dy||0)-(B.I.base-g[1])*s;
-    const L=Math.hypot(bx-ax,by-ay),n=Math.max(4,Math.round(L/5)),sag=Math.min(14,L*.12);c.lineWidth=1.4;
-    for(let i=0;i<=n;i++){const u=i/n,x=ax+(bx-ax)*u,y=ay+(by-ay)*u+Math.sin(u*Math.PI)*sag;c.strokeStyle='#1c1c22';c.beginPath();c.ellipse(x,y,i%2?1.6:3,i%2?3:1.6,0,0,7);c.stroke();
-      c.strokeStyle='#5a5a66';c.beginPath();c.ellipse(x,y-.4,i%2?1:2.2,i%2?2.2:1,0,0,7);c.stroke();}}},
+    if(SC.livelli.some(l=>l.n==='catena_spezzata')){d.r=(d.r||0)+1/60;_catena(c,ax,ay,ax-6+Math.sin(d.r*5)*6*Math.exp(-d.r),ay+28,4);return;}
+    const s=B.scala||1,g=MAG6.gambaBranda,bx=B.x+(g[0]-B.I.cx)*s,by=SCENA_SUOLO+(B.dy||0)-(B.I.base-g[1])*s;_catena(c,ax,ay,bx,by,22);}},
   /* p14: Luca appoggia il vassoio sul tavolo; da lì in poi resta sul tavolo come oggetto di scena */
   vassoio_tavolo:{draw(c,t,w,h,d){if(!d.s&&SC){d.s=1;SC.oggetti.push(creaOggetto(MAG6.vassoio));}}},
   /* la catena grigia scura: dal polso di Iacopo alla gamba della branda (lo segue quando si muove, con un tintinnio) */
-  catena:{sopra:true,draw(c,t,w,h,d){const B=SC&&SC.oggetti.find(x=>x.img==='branda');if(!B||!B.I.im.naturalWidth)return;
+  catena:{sopra:true,draw(c,t,w,h,d){const B=SC&&SC.oggetti.find(x=>x.img===CAP6.branda.img);if(!B||!B.I.im.naturalWidth)return;
     let o=SC.attori.iacopobranda,pt=CAP6.polsoSdraiato;if(!o){o=SC.attori.ribelle;pt=CAP6.polsoSeduto;}const F=o&&o.fot;if(!F)return;
     const ax=o.x+o.face*(pt[0]-F.ax)*F.sc,ay=F.y+(pt[1]-F.ay)*F.sc,s=(B.scala||1)*SCENA_ZOOM,g=CAP6.gambaBranda,bx=B.x+(B.ribalta?-1:1)*(g[0]-B.I.cx)*s,by=SCENA_SUOLO+(B.dy||0)-(B.I.base-g[1])*s;
     if(d.ax!=null&&Math.hypot(ax-d.ax,ay-d.ay)>3&&t-(d.tt||0)>.3){d.tt=t;try{beep(2400,.04,'triangle',.035);setTimeout(()=>beep(3100,.03,'triangle',.025),50);}catch(e){}}d.ax=ax;d.ay=ay;
-    const L=Math.hypot(bx-ax,by-ay),n=Math.max(4,Math.round(L/5)),sag=Math.min(18,L*.15);c.lineWidth=1.4;
+    const L=Math.hypot(bx-ax,by-ay),n=Math.max(4,Math.round(L/5)),sag=Math.min(24,L*.22);c.lineWidth=1.4;
     for(let i=0;i<=n;i++){const u=i/n,x=ax+(bx-ax)*u,y=ay+(by-ay)*u+Math.sin(u*Math.PI)*sag;c.strokeStyle='#1c1c22';c.beginPath();c.ellipse(x,y,i%2?1.6:3,i%2?3:1.6,0,0,7);c.stroke();
       c.strokeStyle='#5a5a66';c.beginPath();c.ellipse(x,y-.4,i%2?1:2.2,i%2?2.2:1,0,0,7);c.stroke();}}},
   /* suoni brevi: catene che tintinnano, il martello gettato a terra */

diff --git a/sw.js b/sw.js
@@ -1,4 +1,4 @@
-const CACHE = 'sopracciglia-v203';
+const CACHE = 'sopracciglia-v204';
 /* IMMAGINI (sprite, sfondi): una cache che resta tra una versione e l'altra. Si prendono subito dalla memoria del telefono
    e si aggiornano in silenzio dalla rete una volta per sessione (così gli sfondi compaiono subito, anche con rete lenta). */
 const MEDIA = 'sopracciglia-immagini';
